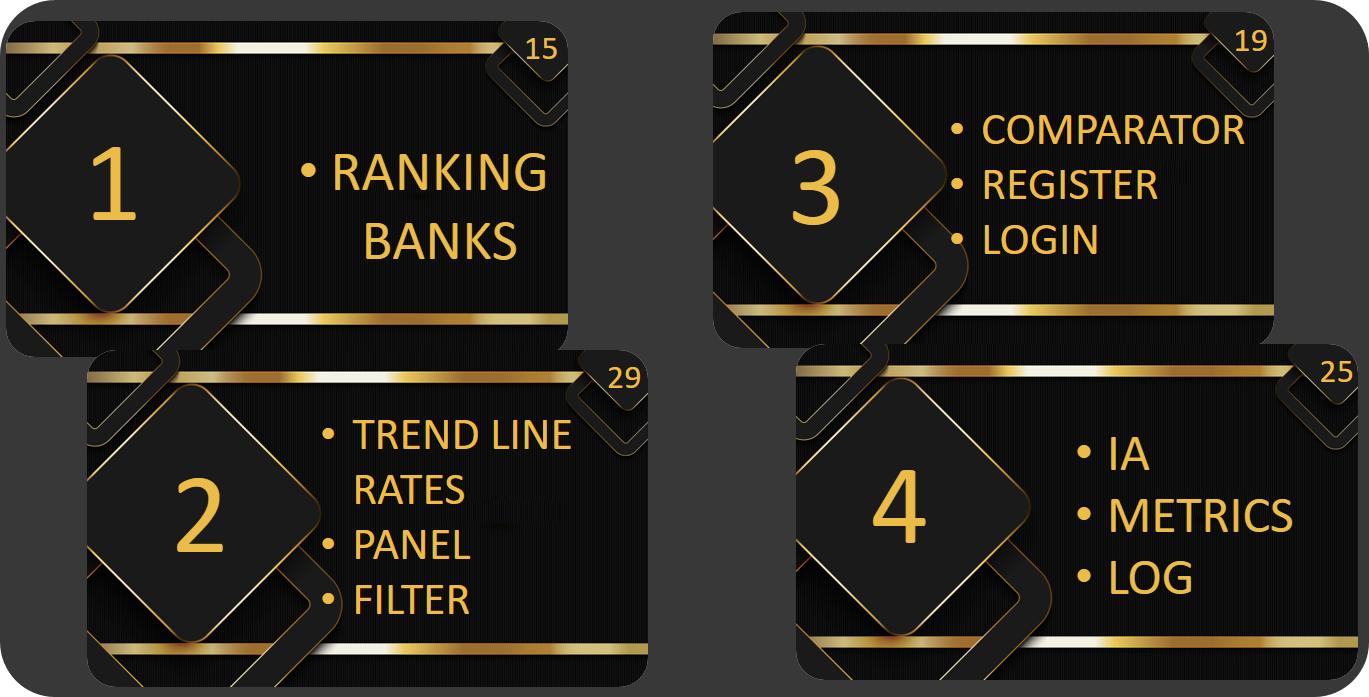
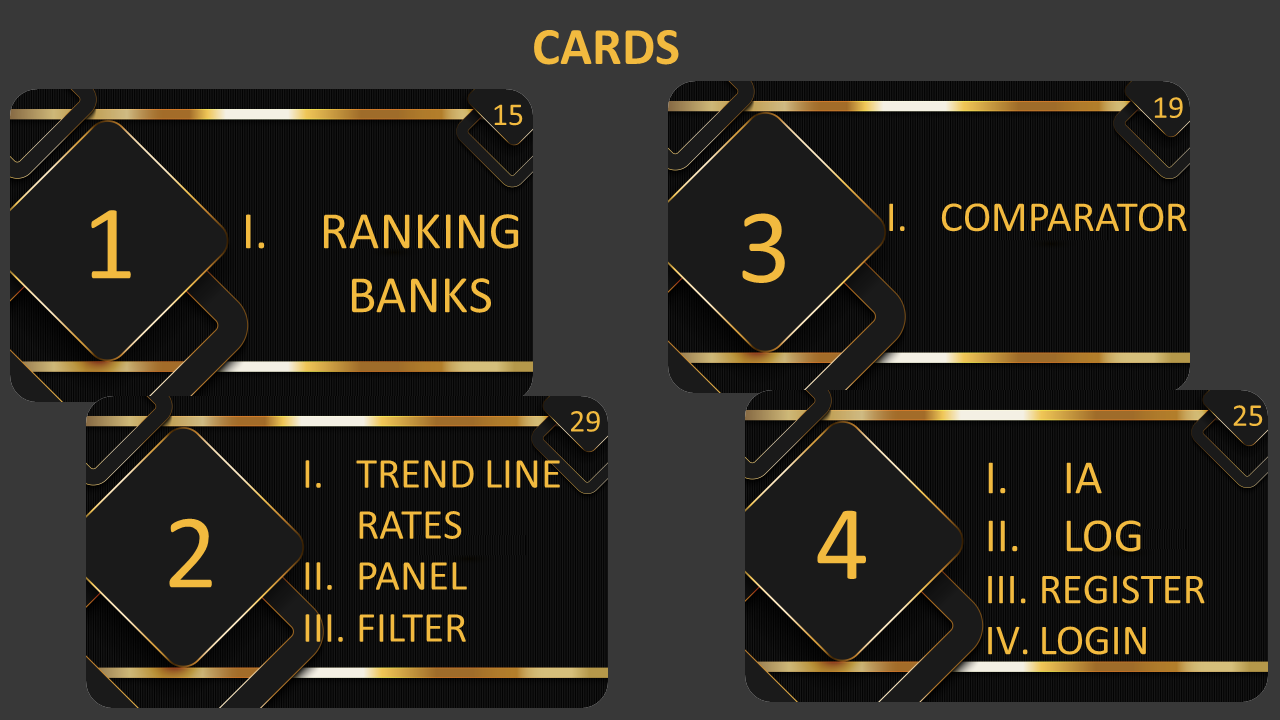
Add images and readme sprint 3

diff --git a/docs/readme_sprint/sprint3.md b/docs/readme_sprint/sprint3.md
@@ -1,12 +1,17 @@
-<h1 align="center">MoneyMind | 6th Semester - Sprint 2</h1>
+<h1 align="center">MoneyMind | 6th Semester - Sprint 3</h1>
 <h2>📖 User Story</h2>
-<img src="">
+<img src="https://github.com/Barbara-BB/FatecAPI-06/blob/main/docs/User Story_sprint3.png">
 
 <h2>📌 Project Product Backlog</h2>
 <img src="">
 
 <h2>📅 Cards for Each Delivery</h2>
-<img src="">
+<img src="https://github.com/Barbara-BB/FatecAPI-06/blob/main/docs/CARD_sprint3.png">
+
+## 🚦 DoR (Definition of Ready)
+
+## ✅ DoD (Definition of Done)
+
 <h2>🚧 Project Prototype</h2>
 
 <p align="justify"> This is our prototype in <a href="https://www.figma.com/proto/jMCu3TlAj0V2WdrlGG78fS/Money-Mind?node-id=293-845&scaling=contain&page-id=0%3A1&starting-point-node-id=293%3A845">Figma</a>! It represents what the application should look like in its final form, and all developers should adhere to the details presented as closely as possible.</p>

diff --git a/README.md b/README.md
@@ -65,12 +65,12 @@ Additionally, the platform also has a ranking dashboard in which the user can ch
     </tr>
          <tr>
         <td align="center">Sprint 03</td>
-        <td align="center">In Progress</td>
+        <td align="center">Finished</td>
         <td align="center">24/04 to 14/05</td>
         <td align="center"></td>
         <td align="center"></td>
         <td align="center"></td>
-        <td align="center"></td>
+        <td align="center"><p align="justify"><a href="https://github.com/Barbara-BB/FatecAPI-06/blob/main/docs/readme_sprint/sprint3.md">Sprint3</a></p></td>
     </tr>
           <tr>
         <td align="center">Sprint 04</td>
